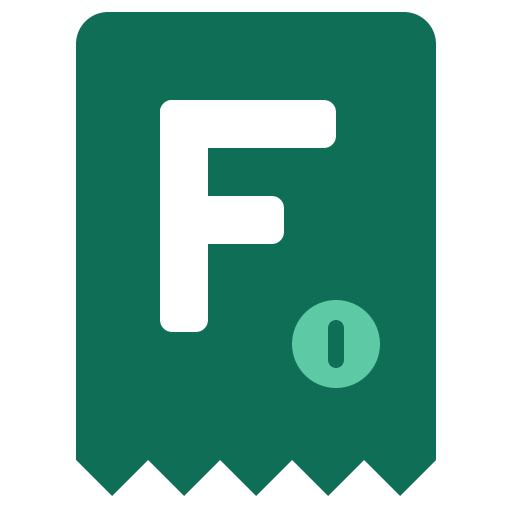
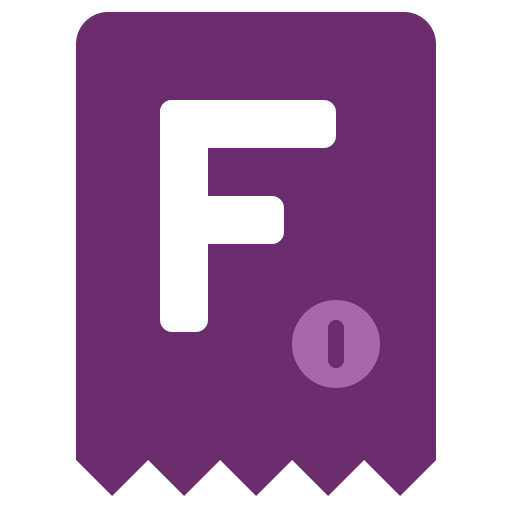
feat(marca): color primario berenjena en Facturo
Reemplazo exacto de la rampa verde por berenjena (50→900):
tailwind.config.ts, globals.css, layout.tsx (themeColor), manifest.ts,
LogoFacturo.tsx, SVG de public/marca, gráficos de reportes y
PNG/favicon regenerados con scripts/marca/exportar.mjs.

diff --git a/apps/frontend/components/marca/LogoFacturo.tsx b/apps/frontend/components/marca/LogoFacturo.tsx
@@ -10,12 +10,12 @@ interface IconoProps {
 export function IconoFacturo({ tamano = 32, className }: IconoProps) {
   return (
     <svg viewBox="0 0 128 128" width={tamano} height={tamano} className={className} role="img" aria-label="Facturo">
-      <path d="M19 11a8 8 0 0 1 8-8H101a8 8 0 0 1 8 8V115L100 124L91 115L82 124L73 115L64 124L55 115L46 124L37 115L28 124L19 115Z" fill="#0F6E56" />
+      <path d="M19 11a8 8 0 0 1 8-8H101a8 8 0 0 1 8 8V115L100 124L91 115L82 124L73 115L64 124L55 115L46 124L37 115L28 124L19 115Z" fill="#6B2C6E" />
       <rect x="40" y="25" width="12" height="58" rx="3" fill="#FFFFFF" />
       <rect x="40" y="25" width="44" height="12" rx="3" fill="#FFFFFF" />
       <rect x="40" y="49" width="31" height="12" rx="3" fill="#FFFFFF" />
-      <circle cx="84" cy="86" r="11" fill="#5DCAA5" />
-      <rect x="82" y="80" width="4" height="12" rx="2" fill="#0F6E56" />
+      <circle cx="84" cy="86" r="11" fill="#A866AB" />
+      <rect x="82" y="80" width="4" height="12" rx="2" fill="#6B2C6E" />
     </svg>
   );
 }
@@ -38,7 +38,7 @@ export function LogoFacturo({ variante = 'completo', tamano = 32, oscuro = false
         className={cn('font-medium tracking-tight leading-none', oscuro ? 'text-[#F1EFE8]' : 'text-[#2C2C2A] dark:text-[#F1EFE8]')}
         style={{ fontSize: Math.round(tamano * 0.75) }}
       >
-        factur<span className={oscuro ? 'text-[#5DCAA5]' : 'text-[#1D9E75] dark:text-[#5DCAA5]'}>o</span>
+        factur<span className={oscuro ? 'text-[#A866AB]' : 'text-[#8A3D8D] dark:text-[#A866AB]'}>o</span>
       </span>
     </span>
   );

diff --git a/apps/frontend/tailwind.config.ts b/apps/frontend/tailwind.config.ts
@@ -13,16 +13,16 @@ const config: Config = {
         background: "var(--background)",
         foreground: "var(--foreground)",
         primary: {
-          50: '#E1F5EE',
-          100: '#C3EBDC',
-          200: '#9FE1CB',
-          300: '#7AD5B8',
-          400: '#5DCAA5',
-          500: '#1D9E75',
-          600: '#0F6E56',
-          700: '#0C5E49',
-          800: '#085041',
-          900: '#04342C',
+          50: '#F5E9F5',
+          100: '#EBD3EC',
+          200: '#DDB8DE',
+          300: '#C48FC6',
+          400: '#A866AB',
+          500: '#8A3D8D',
+          600: '#6B2C6E',
+          700: '#5A2560',
+          800: '#461C48',
+          900: '#2E1230',
         },
       },
       fontFamily: {

diff --git a/apps/frontend/app/globals.css b/apps/frontend/app/globals.css
@@ -4,16 +4,16 @@
 
 :root {
   /* Primary colors */
-  --primary-50: #E1F5EE;
-  --primary-100: #C3EBDC;
-  --primary-200: #9FE1CB;
-  --primary-300: #7AD5B8;
-  --primary-400: #5DCAA5;
-  --primary-500: #1D9E75;
-  --primary-600: #0F6E56;
-  --primary-700: #0C5E49;
-  --primary-800: #085041;
-  --primary-900: #04342C;
+  --primary-50: #F5E9F5;
+  --primary-100: #EBD3EC;
+  --primary-200: #DDB8DE;
+  --primary-300: #C48FC6;
+  --primary-400: #A866AB;
+  --primary-500: #8A3D8D;
+  --primary-600: #6B2C6E;
+  --primary-700: #5A2560;
+  --primary-800: #461C48;
+  --primary-900: #2E1230;
   
   /* Tooltip */
   --tooltip-bg: #ffffff;

diff --git a/apps/frontend/app/[locale]/(dashboard)/reportes/ventas/page.tsx b/apps/frontend/app/[locale]/(dashboard)/reportes/ventas/page.tsx
@@ -234,7 +234,7 @@ export default function SalesReportPage({
                     borderRadius: '8px',
                   }}
                 />
-                <Bar dataKey="ventas" name={t('invoiced')} fill="#1D9E75" radius={[4, 4, 0, 0]} />
+                <Bar dataKey="ventas" name={t('invoiced')} fill="#8A3D8D" radius={[4, 4, 0, 0]} />
                 <Bar dataKey="cobrado" name={t('collected')} fill="#22c55e" radius={[4, 4, 0, 0]} />
               </BarChart>
             </ResponsiveContainer>

diff --git a/apps/frontend/app/[locale]/(dashboard)/reportes/pagos/page.tsx b/apps/frontend/app/[locale]/(dashboard)/reportes/pagos/page.tsx
@@ -151,7 +151,7 @@ export default function PaymentsReportPage({
       setPagosPorMes(pagosMensuales);
 
       // Payment methods pie chart
-      const colors = ['#1D9E75', '#22c55e', '#f59e0b', '#ef4444', '#8b5cf6', '#06b6d4'];
+      const colors = ['#8A3D8D', '#22c55e', '#f59e0b', '#ef4444', '#8b5cf6', '#06b6d4'];
       const metodosArray = Object.entries(metodosCount).map(([name, value], index) => ({
         name: t(`paymentMethod.${name}`) || name,
         value,

diff --git a/apps/frontend/app/[locale]/(dashboard)/reportes/clientes/page.tsx b/apps/frontend/app/[locale]/(dashboard)/reportes/clientes/page.tsx
@@ -229,7 +229,7 @@ export default function ClientsReportPage({
                   borderRadius: '8px',
                 }}
               />
-              <Bar dataKey="ventas" name={t('totalSales')} fill="#1D9E75" radius={[0, 4, 4, 0]} />
+              <Bar dataKey="ventas" name={t('totalSales')} fill="#8A3D8D" radius={[0, 4, 4, 0]} />
             </BarChart>
           </ResponsiveContainer>
         </div>

diff --git a/apps/frontend/app/manifest.ts b/apps/frontend/app/manifest.ts
@@ -8,7 +8,7 @@ export default function manifest(): MetadataRoute.Manifest {
     start_url: '/',
     display: 'standalone',
     background_color: '#FFFFFF',
-    theme_color: '#0F6E56',
+    theme_color: '#6B2C6E',
     icons: [
       { src: '/marca/icon-192.png', sizes: '192x192', type: 'image/png' },
       { src: '/marca/icon-512.png', sizes: '512x512', type: 'image/png' },

diff --git a/apps/frontend/app/layout.tsx b/apps/frontend/app/layout.tsx
@@ -4,7 +4,7 @@ import type { Metadata, Viewport } from 'next';
 import { URL_SITIO } from '@/lib/sitio';
 
 export const viewport: Viewport = {
-  themeColor: '#0F6E56',
+  themeColor: '#6B2C6E',
 };
 
 export const metadata: Metadata = {
